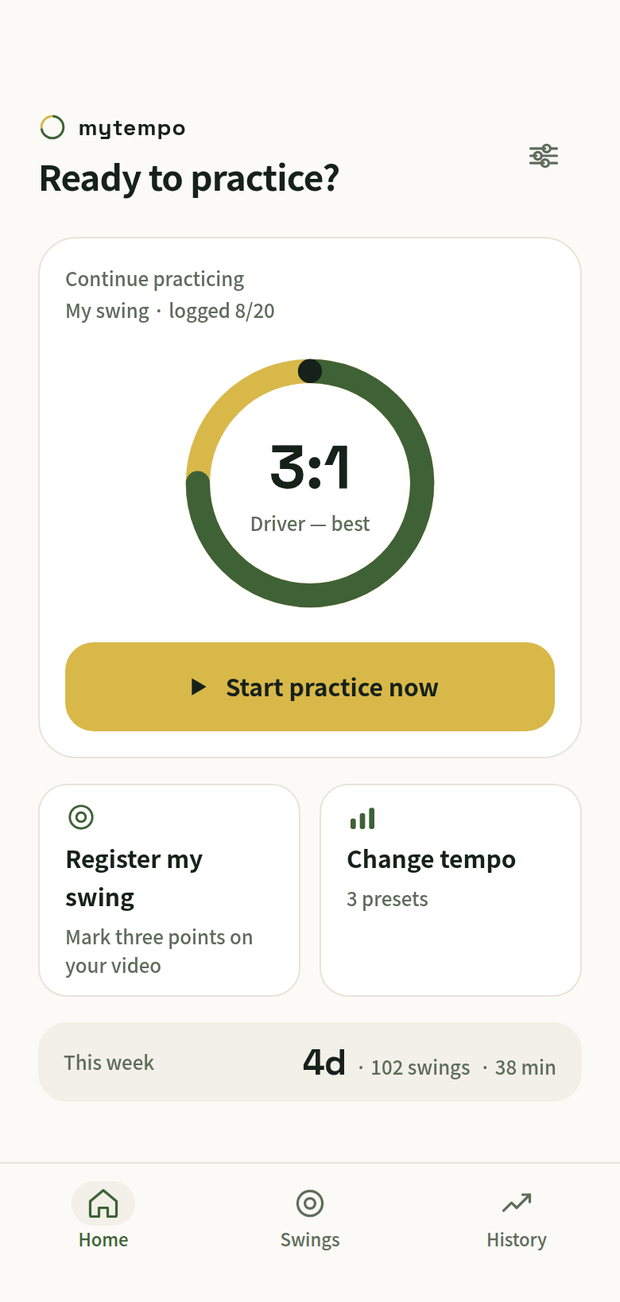
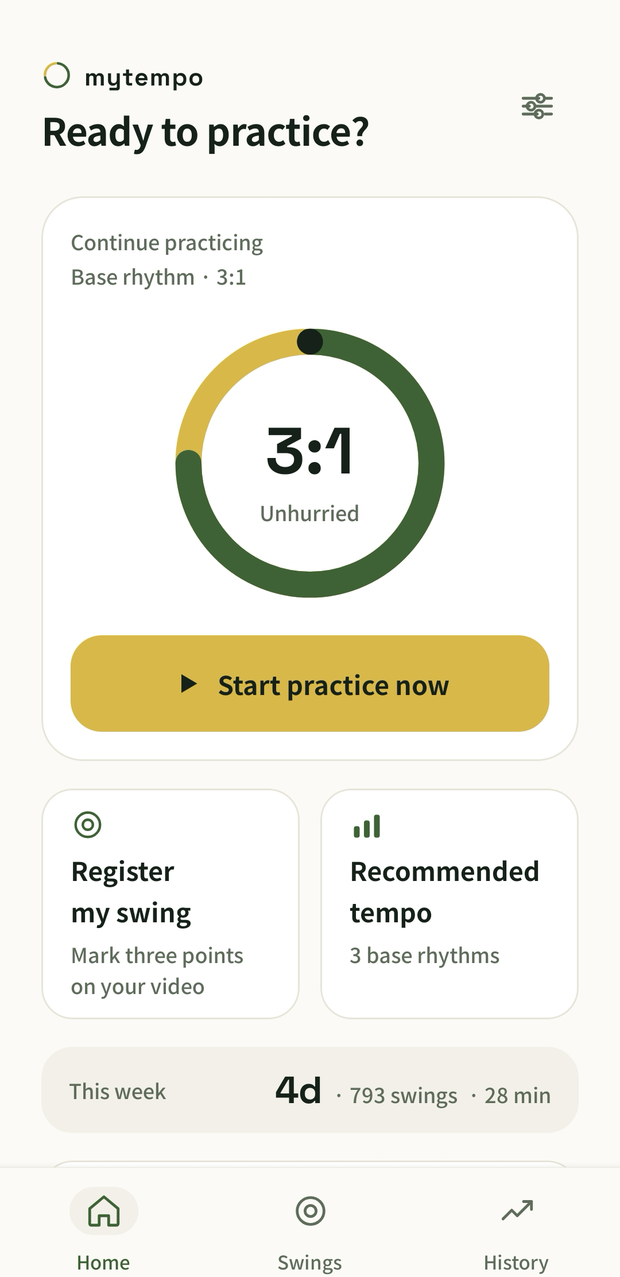
fix(c12): 랜딩 앱 캡처를 vc15 실기기 스크린샷으로 교체
걸려 있던 캡처가 2026-08-21(vc7 이전)이라 화면에 폐기된 문구가
그대로 박혀 있었다 — "드라이버 베스트"(링 캡션) · "3종 프리셋" ·
"템포 바꾸기"(카드 제목). T-85가 랜딩 본문만 고치고 이미지는
범위에 안 넣어서 2주 넘게 남아 있었다.

vc15(versionCode 15, 커밋 7c07f3a) 창업자 실기기 캡처로 교체한다.
같은 화면이 지금은 "여유롭게" · "기준 리듬 3종" · "추천 템포"다.

· ko/en × light/dark 4장, png + webp
· 원본 1080x2340에서 상태바(y 36~74)와 제스처바(y 2312~2323)를
  잘라내고 620px 폭으로 리사이즈 → 620x1277
· 비율이 1302 → 1277로 바뀌어 img width/height 와 .phone 의
  aspect-ratio 를 같이 고쳤다. 늘리지 않았다
· alt 도 현재 화면대로 고쳤다(카드 두 장을 읽어준다)

→ T-103 C-12

diff --git a/en/index.html b/en/index.html
@@ -99,8 +99,8 @@
           <source media="(prefers-color-scheme: dark)" type="image/webp" srcset="/assets/app-home-dark-en.webp">
           <source media="(prefers-color-scheme: dark)" srcset="/assets/app-home-dark-en.png">
           <source type="image/webp" srcset="/assets/app-home-light-en.webp">
-          <img src="/assets/app-home-light-en.png" width="620" height="1302" decoding="async"
-               alt="The mytempo home screen — the 3:1 tempo ring for a saved swing, with backswing and downswing arcs and a Start practice button.">
+          <img src="/assets/app-home-light-en.png" width="620" height="1277" decoding="async"
+               alt="The mytempo home screen — the 3:1 base-rhythm tempo ring with backswing and downswing arcs, a Start practice now button, and Register my swing / Recommended tempo cards below.">
         </picture>
       </div>
     </div>

diff --git a/index.html b/index.html
@@ -116,8 +116,8 @@
           <source media="(prefers-color-scheme: dark)" type="image/webp" srcset="/assets/app-home-dark.webp">
           <source media="(prefers-color-scheme: dark)" srcset="/assets/app-home-dark.png">
           <source type="image/webp" srcset="/assets/app-home-light.webp">
-          <img src="/assets/app-home-light.png" width="620" height="1302" decoding="async"
-               alt="mytempo 홈 화면 — 등록해 둔 내 스윙의 3:1 템포 링과 백스윙·다운스윙 구간, [바로 연습 시작] 버튼">
+          <img src="/assets/app-home-light.png" width="620" height="1277" decoding="async"
+               alt="mytempo 홈 화면 — 기준 리듬 3:1 템포 링과 백스윙·다운스윙 구간, [바로 연습 시작] 버튼, 그 아래 [내 스윙 등록]·[추천 템포] 카드">
         </picture>
       </div>
     </div>

diff --git a/assets/style.css b/assets/style.css
@@ -218,7 +218,7 @@ h2.section-title { font-size: clamp(26px, 4vw, 40px); font-weight: 800; line-hei
 .phone {
   position: relative;
   width: min(310px, 82vw);
-  aspect-ratio: 620 / 1302;   /* 실기기 스크린샷 + 상태바 밴드 비율 */
+  aspect-ratio: 620 / 1277;   /* 실기기 스크린샷(vc15) — 상태바·제스처바를 잘라낸 비율 */
   background: var(--bg);
   border: 10px solid var(--bezel);
   border-radius: 44px;
